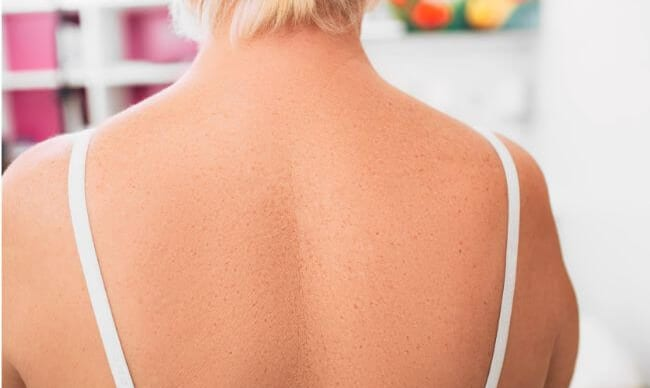
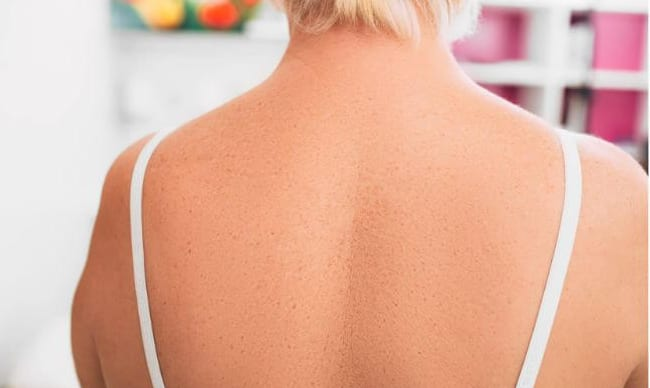
feat: enhance treatment media handling with image mirroring and add screenshot script

diff --git a/scripts/import-treatment-images.ts b/scripts/import-treatment-images.ts
@@ -105,7 +105,13 @@ let bannersWritten = 0
 let sidebarsWritten = 0
 let small = 0
 
-async function writeOne(slug: string, source: MediaSource, slot: { width: number; height: number }, url: string) {
+async function writeOne(
+  slug: string,
+  source: MediaSource,
+  slot: { width: number; height: number },
+  url: string,
+  mirror = false,
+) {
   const file = resolveSource(source.from)
   if (!fs.existsSync(file)) { missing.push(`${slug}: ${source.from}`); return }
 
@@ -115,6 +121,7 @@ async function writeOne(slug: string, source: MediaSource, slot: { width: number
 
   await sharp(file)
     .resize(size.width, size.height, { fit: 'cover', position: source.position ?? 'attention' })
+    .flop(mirror) // A horizontal mirror, for a comparison pair whose subject faces the wrong way.
     .flatten({ background: '#FFFFFF' }) // PNG sources may carry alpha; JPEG has none.
     .jpeg({ quality: 82, mozjpeg: true })
     .toFile(path.join(PUBLIC, url))
@@ -167,7 +174,7 @@ for (const slug of slugs) {
     const anchor = media.compare.before.position ?? 'centre'
     for (const side of ['before', 'after'] as const) {
       const source = { ...media.compare[side], position: anchor }
-      await writeOne(slug, source, treatmentImageSlot, treatmentComparePath(slug, side))
+      await writeOne(slug, source, treatmentImageSlot, treatmentComparePath(slug, side), media.compare.mirror)
     }
   }
 

diff --git a/src/content/treatmentMedia.ts b/src/content/treatmentMedia.ts
@@ -85,8 +85,13 @@ export interface TreatmentMedia {
    *
    * Both frames are cropped with the same anchor (the import script forces
    * 'centre' unless told otherwise) so the two line up under the divider.
+   *
+   * `mirror` flips both frames horizontally. The slider reads left-to-right —
+   * before on the left, after on the right — so a pair whose subject sits on
+   * the right of the photo puts the untreated skin under the "After" label and
+   * reads backwards. Flipping both keeps them registered with each other.
    */
-  compare?: { before: MediaSource; after: MediaSource }
+  compare?: { before: MediaSource; after: MediaSource; mirror?: true }
 }
 
 /** The two slots' shapes, measured off theme-reference's service page at 1440: 847x505 and 847x380. */
@@ -329,6 +334,9 @@ export const treatmentMedia: Record<string, TreatmentMedia> = {
     compare: {
       before: { from: 'backup:2025/01/Mole-Removal-Before-cnv.jpg', alt: 'Mole on the back being examined before removal', stock: true },
       after: { from: 'backup:2025/01/Mole-Removal-After-cnv.jpg', alt: 'The same area of the back after mole removal', stock: true },
+      // The mole and the examining hand sit on the right of the source photo,
+      // under the "After" label; mirrored, they land on the "Before" side.
+      mirror: true,
     },
   },
   'warts-removal-treatment-in-bangalore': {
